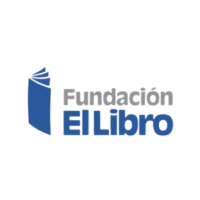
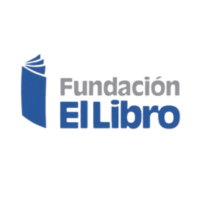
Cambio del tamaño de las imagenes de clientes

Changed region(s): [[0.3, 0.36, 0.93, 0.69], [0.09, 0.27, 0.27, 0.69]]

diff --git a/Daleproducciones/styles.css b/Daleproducciones/styles.css
@@ -91,6 +91,12 @@ body{
   /* Mantén la proporción de aspecto original */
 }
 
+.abcd-img{
+  width: 100%;
+}
+
+
+
 .row-with-bg {
   background-image: url("./assets/03-realización-de-espacios/Imagen1.jpg");
   /* Reemplaza 'ruta_de_la_imagen.jpg' con la ruta de tu imagen de fondo */

diff --git a/Daleproducciones/index.html b/Daleproducciones/index.html
@@ -156,7 +156,7 @@
           <img
             src="./assets/01-quienes-somos/Imagen7.jpg"
             alt=""
-            class="img-fluid img-effect"
+            class="img-fluid img-effect abcd-img"
           />
         </div>
       </div>
